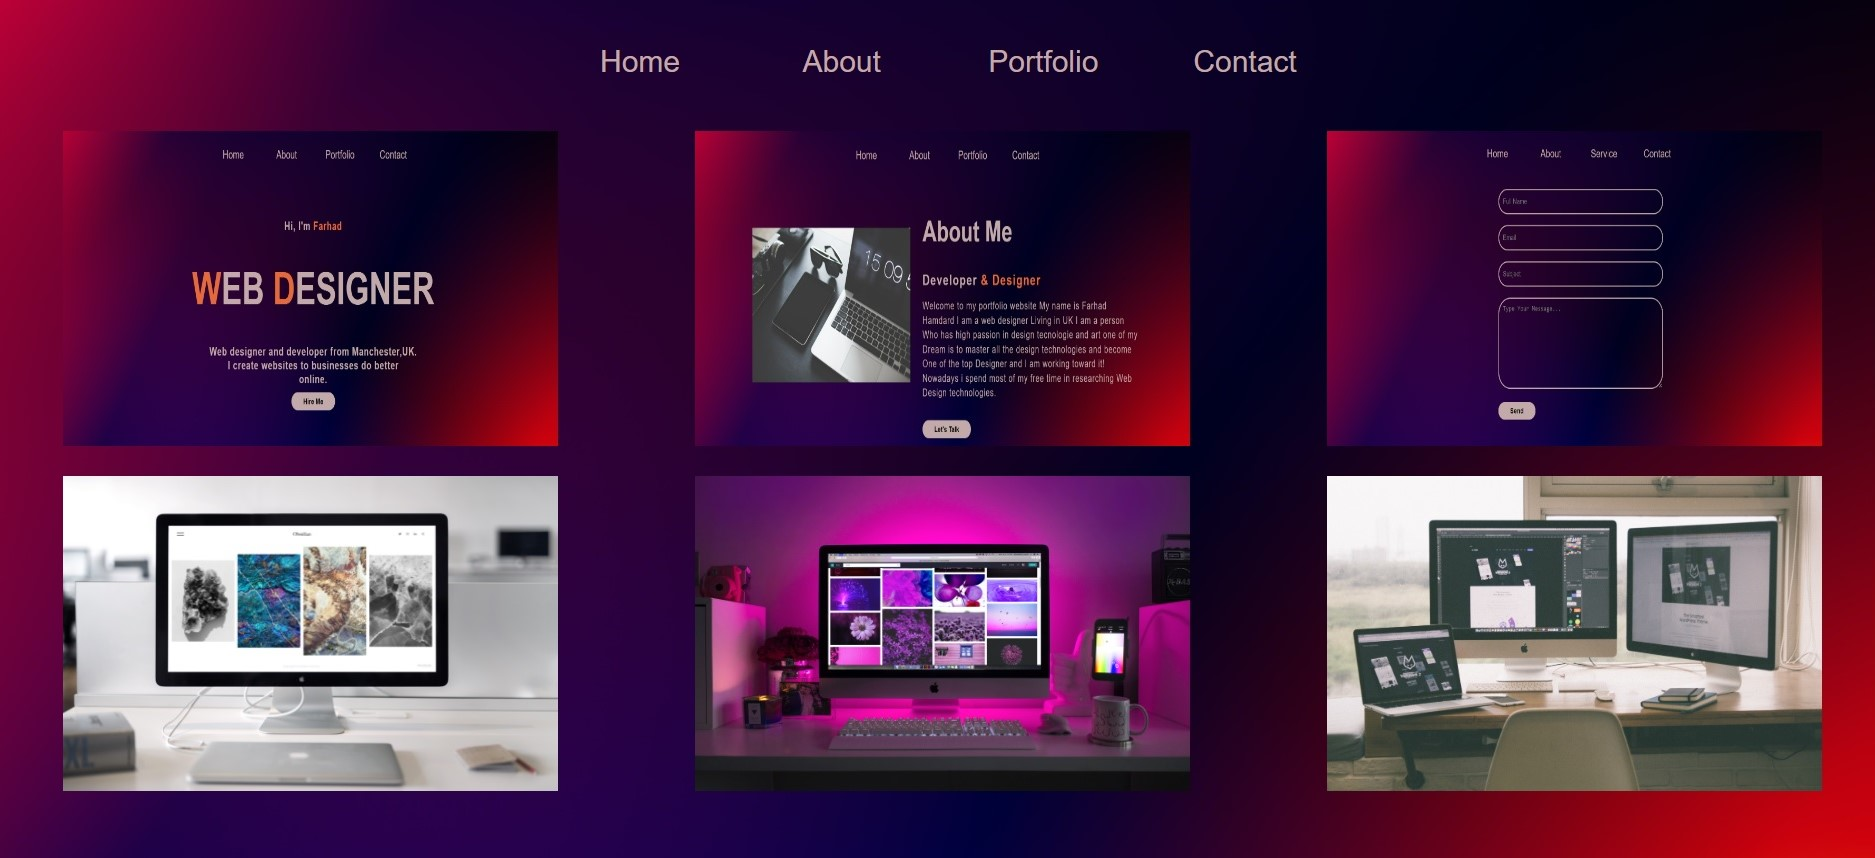
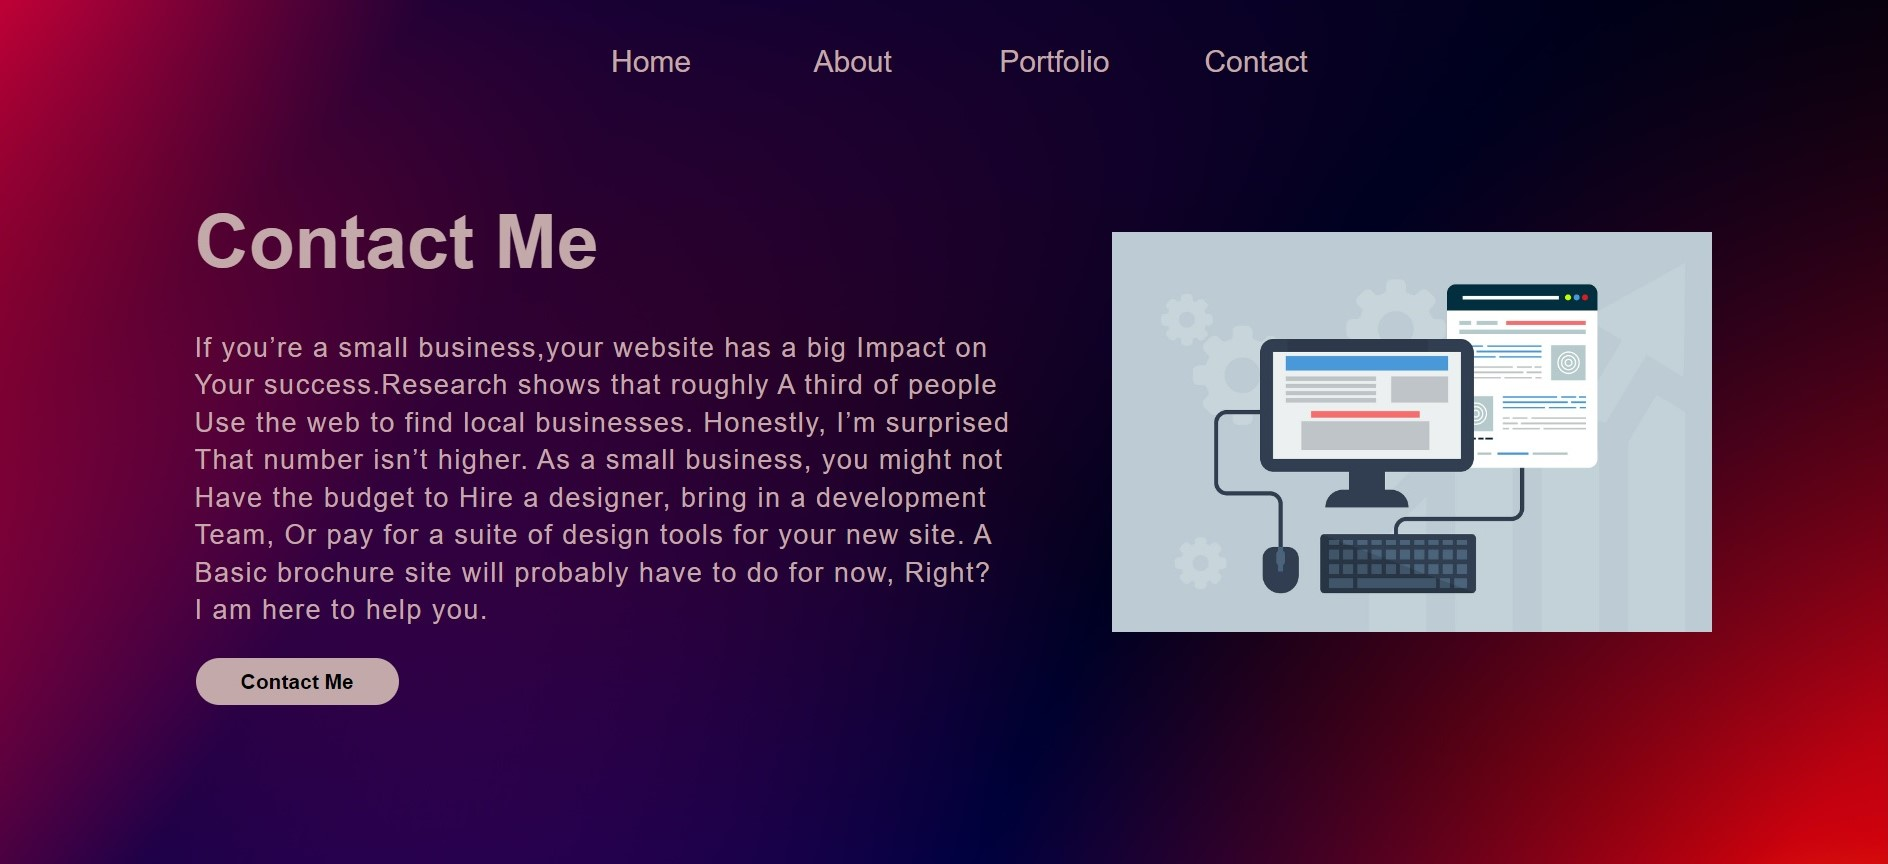
Add files via upload

diff --git a/style.css b/style.css
@@ -61,7 +61,7 @@ transition: 0.6s;
   color: rgb(230,104,59);
 }
 
-/* fist page button */
+/* first page button */
 .info a{
   background-color: rgb(195, 169, 169);
   padding: 8px 30px;
@@ -144,37 +144,43 @@ background-color: rgb(230,104,59);
 
 /* contact section */
 
-.Contact{
-  position: absolute;
-  width: 500px;
-  top: 55%;
-  left: 50%;
-  transform: translate(-50%, -50%);
-  background: none;
-  box-shadow: none;
-  border-radius: 8px; 
+
+.contact img{
+  height: auto;
+  width: 400px;
+  margin-top: 5%;
 }
 
-form{
-  margin: 40px;
+.contact-text{
+  width: 550px;
 }
-.input-f{
-  height: 40px;
-  width: 400px;
-  margin-top: 20px;
-  padding-left: 10px;
-  border: 2px solid rgb(195, 169, 169);;
-  outline: none;
-  border-radius: 30px;
-  background: none;
+
+.main1{
+  width: 1100px;
+  max-width: 85%;
+  margin: auto;
+  display: flex;
+  align-items: center;
+  justify-content: space-around;
+}
+
+.contact-text h6{
   color: rgb(195, 169, 169);
+  font-size: 50px;
+  text-transform: capitalize;
+  margin-bottom: 30px;
+  margin-top: 10%;
+  
 }
-.text-ff{
-  height: 150px;
-  padding-top: 10px;
+.contact-text p{
   color: rgb(195, 169, 169);
+  letter-spacing: 1px;
+  line-height: 25px;
+  font-size: 18px;
+  margin-bottom: 25px;
+  
 }
-button{
+.mail{
   background: rgb(195, 169, 169);
   padding: 8px 30px;
   border-radius: 30px;
@@ -184,10 +190,16 @@ button{
   margin-top: 20px;
   cursor: pointer;
   transition: .3s;
+  text-decoration: none;
+  vertical-align: center;
+  justify-content: center;
+  position: relative;
+  left:10% ;
 }
- button:hover{
-  transform: scale(1.1) ;
- }
+.mail:hover{
+background: transparent;
+background-color: rgb(230,104,59);
+}
 
  /* Portfolio Section */
  .gallery{

diff --git a/contact.html b/contact.html
@@ -14,14 +14,27 @@
           <li><a href="contact.html">Contact</a></li>
         </ul>
       </div>
-      <div class="Contact">
-        <form action="https://formsubmit.co/95edc4dc39fcd4536e06bc48fb0c6211" method="POST">
-          <input type="text" class="input-f" placeholder="Full Name" name="Full Name" required>
-          <input type="text" class="input-f" placeholder="Email" name="Email" required>
-          <input type="text" class="input-f" placeholder="Subject" name="Subject" required>
-          <textarea type="text" class="input-f text-ff" placeholder="Type Your Message..." name="Message"></textarea>
-          <button class="button">Send</button>
-        </form>
+     <section class="contact">
+      <div class="main1">
+        
+        <div class="contact-text">
+          <h6>Contact Me</h6>
+          <p>If you’re a small business,your website has a big 
+           Impact on Your success.Research shows that roughly
+           A third of people Use the web to find local businesses.
+           Honestly, I’m surprised That number isn’t higher.
+           As a small business, you might not Have the budget to
+           Hire a designer, bring in a development Team,
+           Or pay for a suite of design tools for your new site.
+           A Basic brochure site will probably have to do for now,
+           Right? <br>I am here to help you.</p>
+        </div>
+        <img src="pic/port 7.jpg">
       </div>
+      
+     </section>
+     <a class="mail" href="mailto:farhad.hamdard78@gmail.com">Contact Me</a>
+     
+    
 </body>
 </html>
